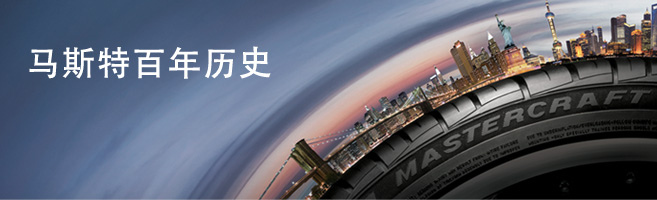
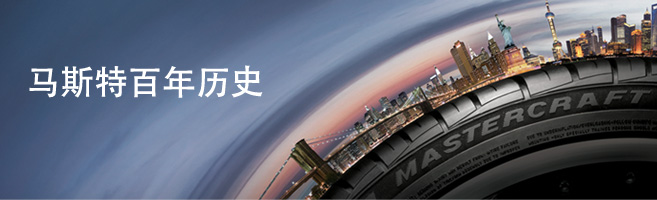
html

Changed region(s): [[0.0304, 0.24, 0.4262, 0.48]]

diff --git a/public/aboutmc.html b/public/aboutmc.html
@@ -135,27 +135,28 @@
 </div>
 
 <div class="bn_con1">
-<div class="bc3_img"><img src="images/br_pic6.jpg" width="422" height="242" /></div>
+<div class="bc3_img"><img src="images/br_pic11.jpg" width="187" height="104" /></div>
 <div class="bc3_text"><p>由于好手轮胎公司在二次世界大战中的突然贡献，在1945年美国三军授勋典礼上，荣获陆海军E勋章的崇高荣誉。翌年，获此殊荣的好手轮胎公司重新整合内部资源，正式更名为固铂轮胎橡胶公司。虽然这家公司已经汇聚了众多优秀轮胎品牌，但马斯特轮胎(Mastercraft)凭借着其传承百年的定制基因，和始终独立运营的特质，成为了固铂轮胎旗下不可或缺的重要组成部分。</p></div>
 
 </div>
 
 <div class="bn_con1">
-<div class="bc2_text"><p>随着战略版图的不断扩张，产品线持续的丰富完善。1995年，马斯特轮胎(Mastercraft)更新了自己的品牌标志，.以全新的面貌迎接更为广阔的国际市场，马斯特轮胎(Mastercraft)更具品牌化的形象至此愈发深入人心。时至今日，马斯特轮胎(Mastercraft)的产品早已分销全球，零售伙伴更是遍布世界各地，它的品牌价值和优秀品质被越来越多的口碑相传。</p></div>
 <div class="bc4_img"><img src="images/br_pic9.gif" width="167" height="37" /></div>
+<div class="bc2_text"><p>随着战略版图的不断扩张，产品线持续的丰富完善。1995年，马斯特轮胎(Mastercraft)更新了自己的品牌标志，.以全新的面貌迎接更为广阔的国际市场，马斯特轮胎(Mastercraft)更具品牌化的形象至此愈发深入人心。时至今日，马斯特轮胎(Mastercraft)的产品早已分销全球，零售伙伴更是遍布世界各地，它的品牌价值和优秀品质被越来越多的口碑相传。</p></div>
+
 </div>
 
 
-<div class="bn_con2">
+<div class="bn_con1">
 <p>时间磨砺出精湛的工艺，也让轮胎不断接受考验，即便是美国最严苛的TTT检测，对马斯特轮胎(Mastercraft)来说也只是普通起点。凭借着卓越品质，马斯特轮胎(Mastercraft)一次次的刷新TTT检测数据，更奠定了让同行望其项背的定制轮胎领导地位。马斯特轮胎(Mastercraft)深信，定制精神是一种对品质的不懈追求和坚持，是一种对消费者负责的认真态度，应该凭借这种精神为更多的市场和消费者提供最优质的产品。作为一个美国品牌，他们针对美国不同的路况，研发定制了不同的轮胎产品，让更多的美国人感受到出色轮胎带来的愉悦驾乘体验。</p>
 </div>
 
-<div class="bn_con2">
+<div class="bn_con1">
 <p>当然，定制之路，百年以来从未停止。始终渴望更专注、更专业的马斯特轮胎(Mastercraft)来到中国，并在这里开始下一个精湛百年。将西方精神融入东方智慧，为中国不同的道路情况和消费需求，量身定制不同功能的产品。不论是面对崎岖的山路，还是泥泞的小路，亦或是平坦的城市道路，都能让更多的中国人从容应对。在马斯特轮胎(Mastercraft)看来，轮胎不只是轮胎，更承载了对生活的期许，对未来的憧憬。更传递了一种坚定、永恒追求的生活信念。</p>
 </div>
 
 
-<div class="bn_con2">
+<div class="bn_con1">
 <p>从美国到中国，定制精神整整延续了100年，并已成为马斯特轮胎(Mastercraft)最重要的信仰，遵循着内心的声音，和中国一起，走向下一个百年。</p>
 </div>
 

diff --git a/public/css/style.css b/public/css/style.css
@@ -229,13 +229,14 @@ span.bl_con{ color:#888; line-height:18px; padding-bottom:15px; margin:0px; padd
 .bc1_text{ float:left; width:430px;}
 .brc_bottom p{ display:block; margin:0px; padding:0px; line-height:24px;text-indent:25px; overflow:hidden; }
 
-.bc2_img{ float:left; margin-right:30px;}
+.bc2_img{ float:left; margin-right:40px;}
 .bc2_text{ float:left; width:430px; }
 
 .bc3_img{ float:left; margin-right:30px; padding-top:10px;}
-.bc3_text{ float:left; width:192px; }
+.bc3_text{ float:left; width:430px; }
 
-.bc4_img{ float:left;  padding-top:30px; margin-left:30px;}
+.bc4_text{ float:left;  padding-top:30px;}
+.bc4_img{ float:left;  padding-top:30px; margin-right:30px; margin-left:20px;}
 
 .bn_con2{ margin-bottom:35px; margin-top:30px;}
 
